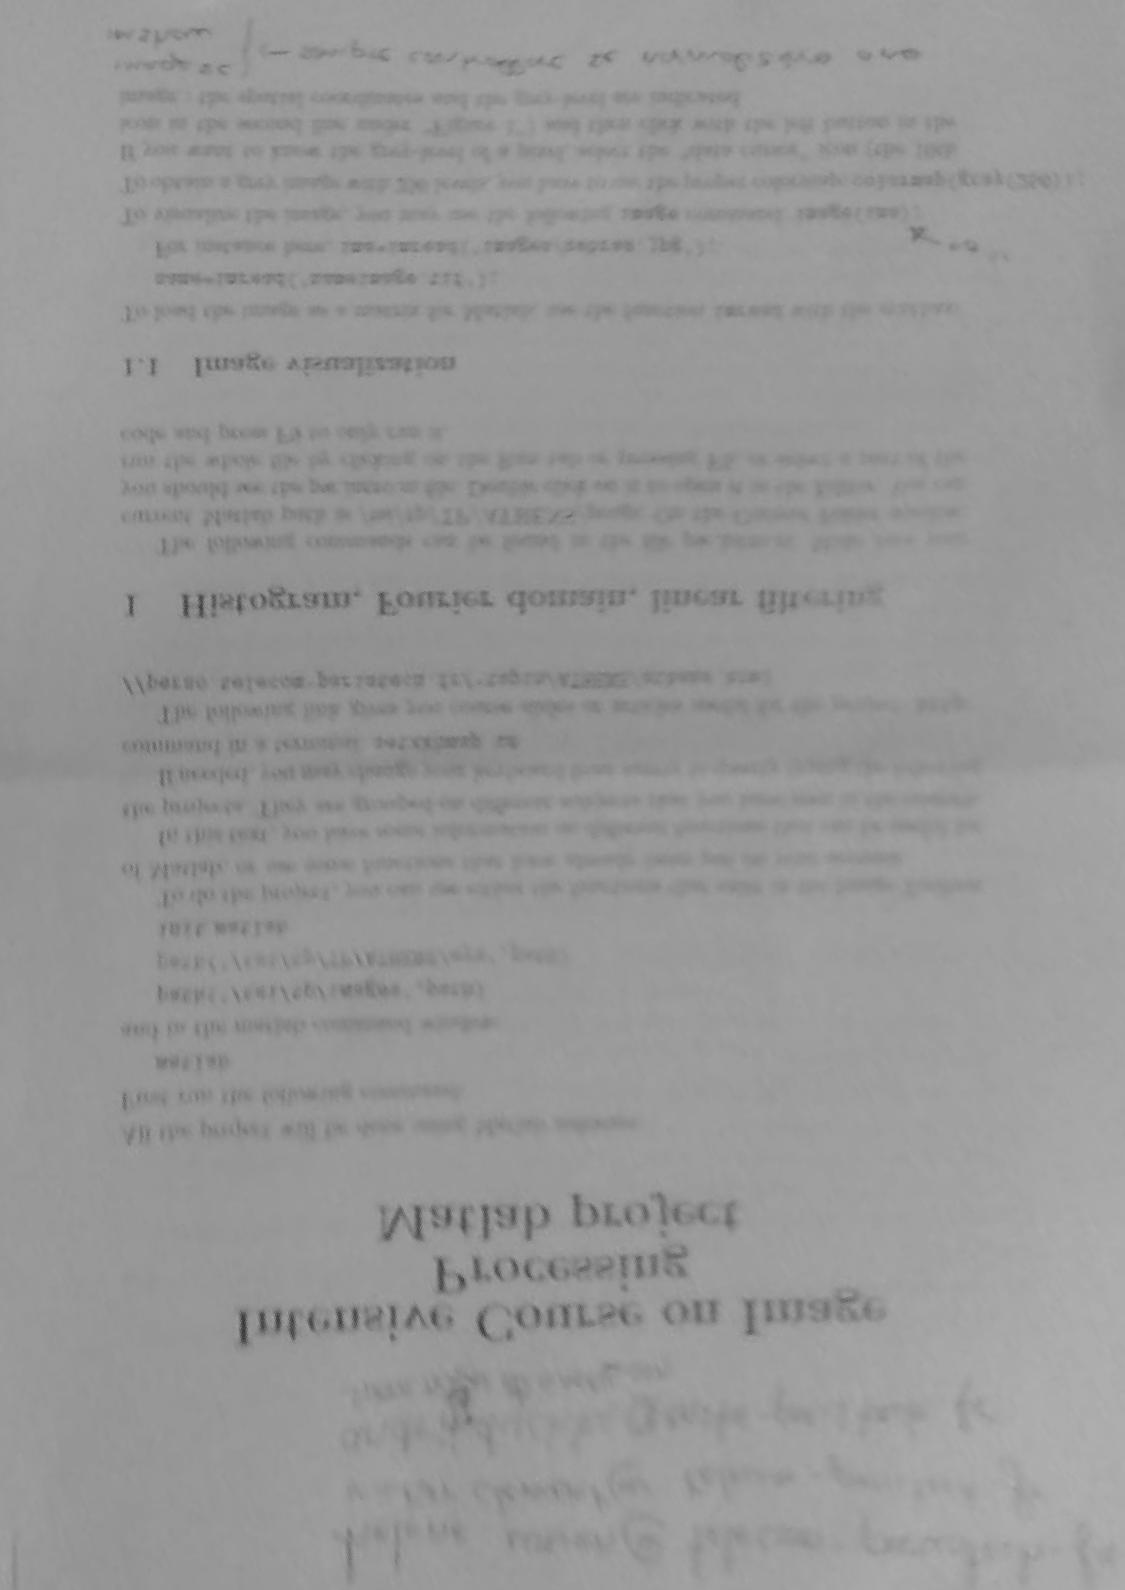
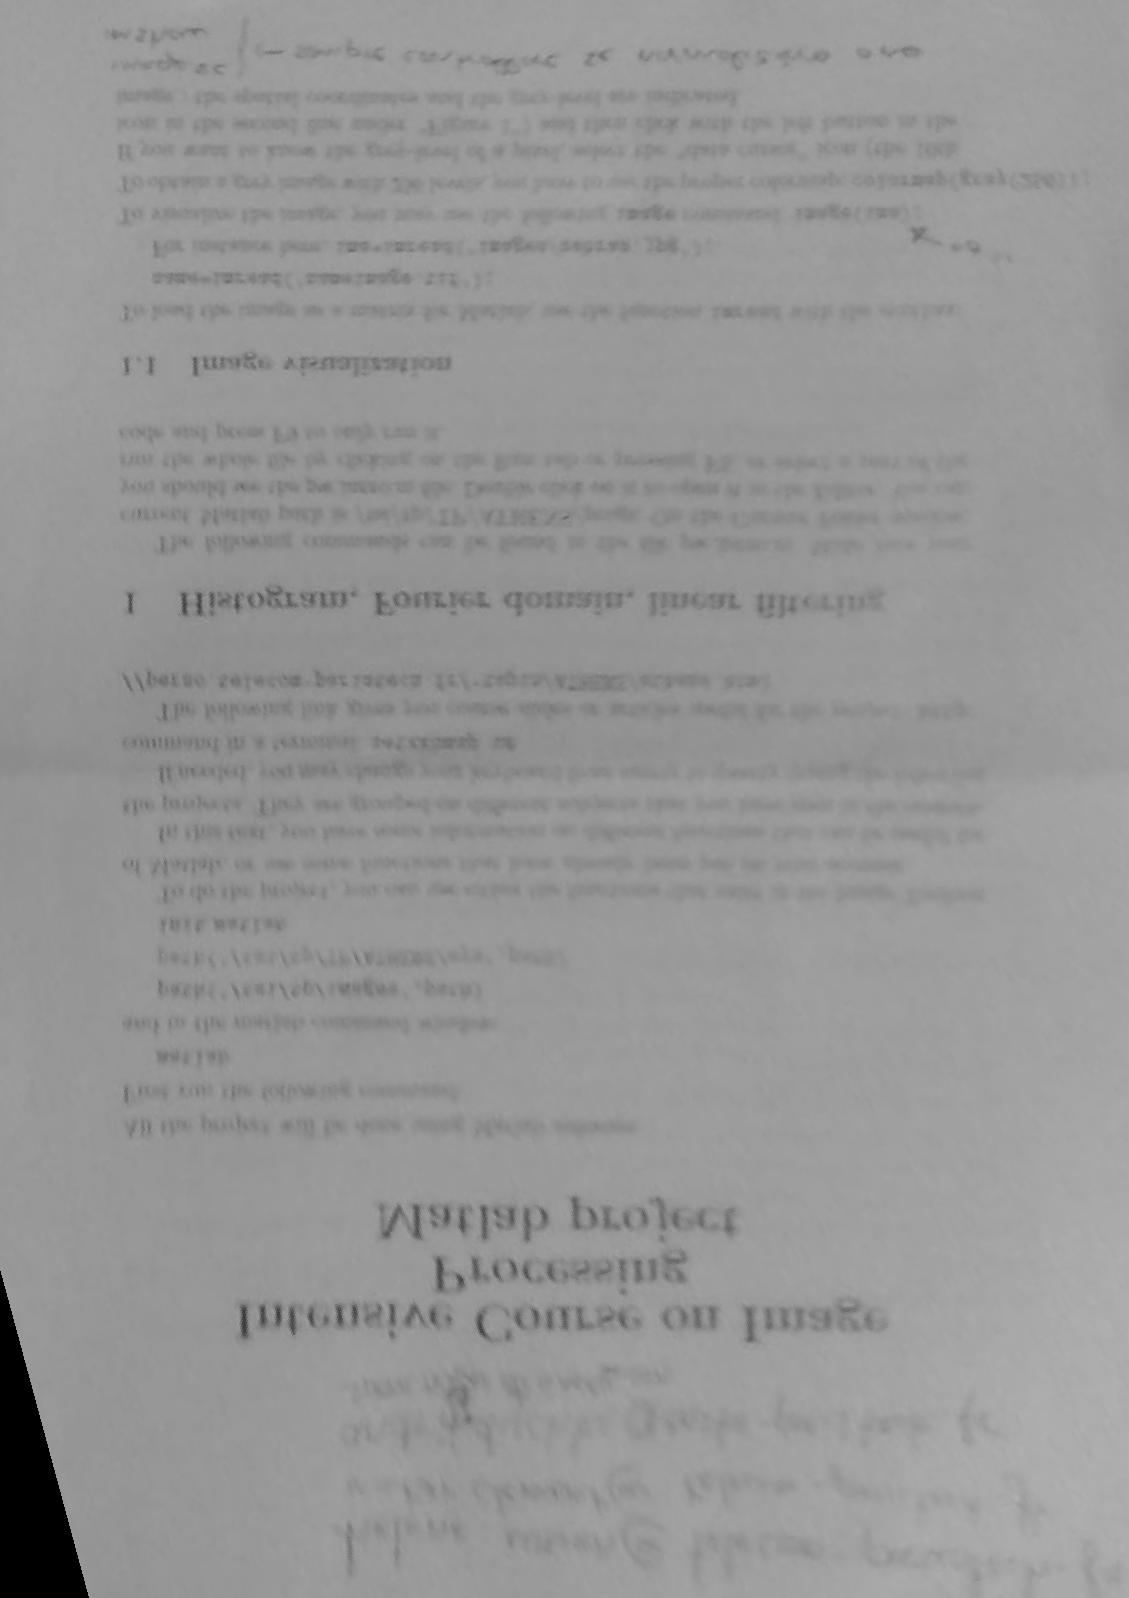
working perspective correction; some minor changes can still be made

diff --git a/functions/page_perspective_correction.m b/functions/page_perspective_correction.m
@@ -1,5 +1,5 @@
 % corrects the perspective deformation of a page
-% input: image of a page
+% input: grayscale image of a page
 % output: grayscale image of a page with corrected perspective
 function page = page_perspective_correction(img, debug)
     %% preprocessing
@@ -7,17 +7,33 @@ function page = page_perspective_correction(img, debug)
         debug = 0;
     end
 
-    % convert to grayscale
-    %img = double(rgb2gray(img));
     % subsample for better performance
-    subsample_rate = 1;
+    subsample_rate = 4;
     img_subsampled = img(1:subsample_rate:end, 1:subsample_rate:end);
     
-    %%
+    %% non-linear filtering - local maximum
     fun = @(x) max(x(:));
-    orig = img_subsampled;
     img_subsampled = nlfilter(img_subsampled, [5, 5], fun);
-    figure; plotim(orig - img_subsampled);
+    
+    %% crop the image to remove uninteresting background
+    mask = zeros(size(img_subsampled));
+    mask(round(size(img_subsampled,1) * 0.1):round(size(img_subsampled,1) * 0.9), ...
+        round(size(img_subsampled,2) * 0.1):round(size(img_subsampled,2) * 0.9)) = 1;
+    C = activecontour(img_subsampled, mask);
+    
+    [row, col] = find(C);
+    offsetRow = round(size(img_subsampled,1) * 0.05);
+    offsetCol = round(size(img_subsampled,2) * 0.05);
+    
+    img_subsampled(1:(min(row)+offsetRow),:) = [];
+    img_subsampled((max(row)-offsetRow):end,:) = [];
+    img_subsampled(:, 1:(min(col)+offsetCol)) = [];
+    img_subsampled(:, (max(col)-offsetCol):end) = [];
+    
+    img(1:((min(row)+offsetRow)*subsample_rate),:) = [];
+    img(((max(row)-offsetRow)*subsample_rate):end,:) = [];
+    img(:, 1:((min(col)+offsetCol)*subsample_rate)) = [];
+    img(:, ((max(col)-offsetCol)*subsample_rate):end) = [];
     
     %% find dominant edges
     edges = edge(img_subsampled, 'Sobel');

diff --git a/page_persp_corr.m b/page_persp_corr.m
@@ -1,21 +1,26 @@
-num_pages = 1;
+num_pages = 6;
 
 final_figure = figure;
 
-for i = 3
+for i = 1:6
     img = imread(sprintf('page%d.jpg', i));
     img = double(rgb2gray(img));
-    img = img(1:4:end, 1:4:end);
 
     figure(final_figure);
-    %subplot(num_pages,2, 2*i -1);
-    subplot(1, 2, 1);
+    if(num_pages == 1)
+        subplot(1, 2, 1);
+    else
+        subplot(num_pages,2, 2*i -1);
+    end
     plotim(img);
 
     page = page_perspective_correction(img, false);
     figure(final_figure);
-    %subplot(num_pages,2,2*i);
-    subplot(1, 2, 2);
+    if(num_pages == 1)
+        subplot(1, 2, 2);
+    else
+        subplot(num_pages,2, 2*i);
+    end
     plotim(page);
 
     imwrite(page/255, sprintf('page%d_fixed.jpg', i));
